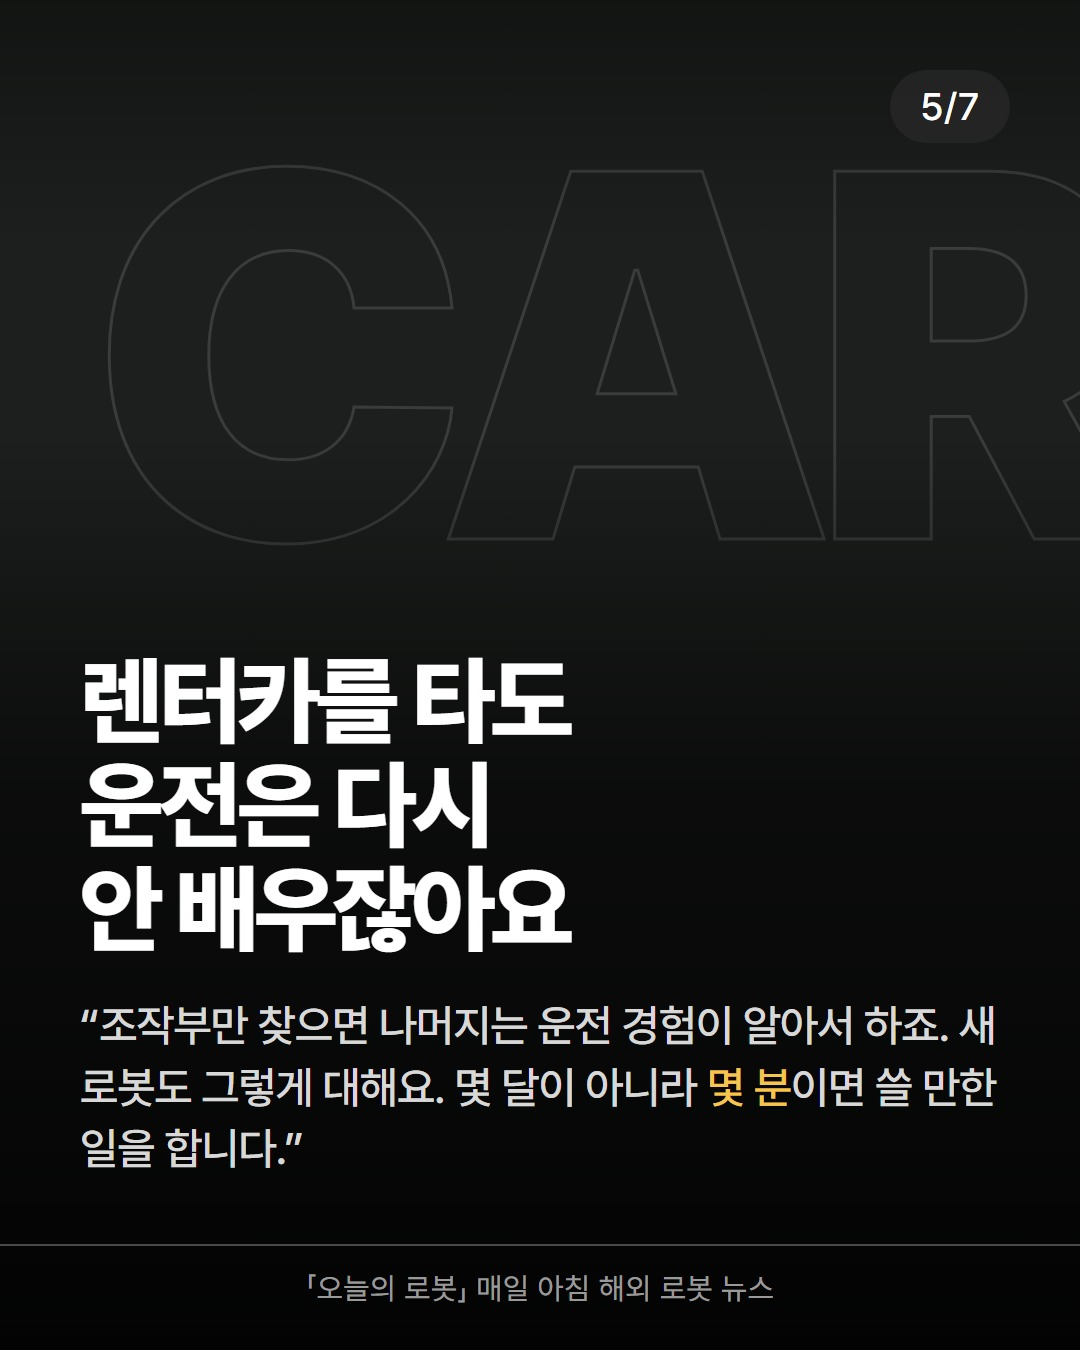
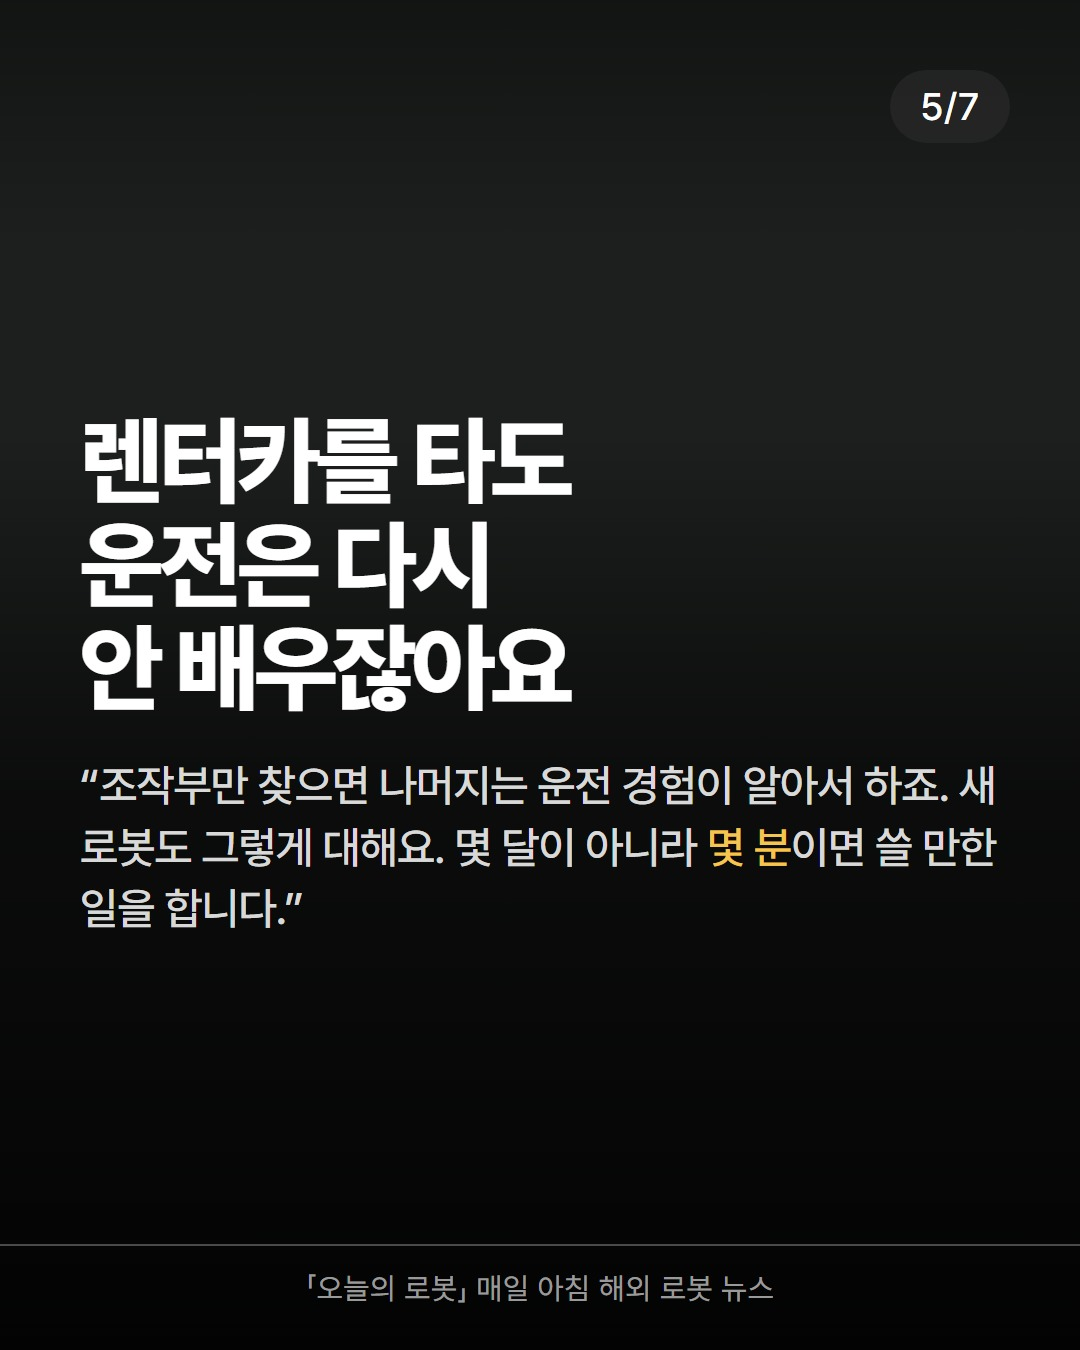
외곽선 숫자 배경 제거, 표지는 기사 속 회사 제공 사진(스톡 제외), 화·목 자영업·중소기업 갈래 추가

Changed region(s): [[0.0611, 0.3111, 0.9167, 0.7156], [0.0611, 0.7467, 0.9472, 0.8711]]

diff --git a/templates/cards.css b/templates/cards.css
@@ -6,8 +6,7 @@ body{background:#111;font-family:Pretendard,"Malgun Gothic",sans-serif;-webkit-f
   background-color:#1c1f1d}
 .bg{position:absolute;inset:0;background-size:cover;background-position:center;filter:grayscale(.3) brightness(.82) contrast(1.04)}
 .pc{position:absolute;right:80px;bottom:120px;font-size:22px;color:rgba(255,255,255,.5)}
-.glyph{position:absolute;right:-40px;top:120px;font-weight:900;font-size:520px;line-height:.9;letter-spacing:-.05em;
-  color:transparent;-webkit-text-stroke:3px rgba(255,255,255,.13);white-space:nowrap}
+.card.plain .body{bottom:auto;top:50%;transform:translateY(-50%)}
 .shade{position:absolute;inset:0;background:linear-gradient(180deg,rgba(0,0,0,.35) 0%,rgba(0,0,0,0) 18%,rgba(0,0,0,0) 32%,rgba(0,0,0,.6) 58%,rgba(0,0,0,.9) 100%)}
 .pill{position:absolute;top:70px;right:70px;background:rgba(40,40,40,.72);color:#fff;font-size:38px;font-weight:500;
   padding:14px 30px;border-radius:44px;letter-spacing:.02em}

diff --git a/photos.py b/photos.py
@@ -29,10 +29,39 @@ def find(query):
     return None, None
 
 
+STOCK = re.compile(r"getty|shutterstock|associated press|\bAP\b|reuters|alamy|bloomberg", re.I)
+
+
+def press(day, post):
+    """기사 대표 사진(og:image)을 표지에 쓴다. 단, 원문이 «Source: <회사>»로 밝힌 회사 제공 사진일 때만.
+    게티·AP·로이터 같은 통신사·스톡 사진은 쓰지 않는다. config.json의 press_photo가 true일 때만 돈다."""
+    src = io.open(os.path.join(day, "source.txt"), encoding="utf-8").read()
+    m = re.search(r"\|\s*Source:\s*([^\n|]{2,40})", src)
+    if not m or STOCK.search(m.group(1)):
+        return print("표지: 회사 제공 사진 표기가 없거나 통신사·스톡 사진 → 건너뜀")
+    page = get(post["source"]["url"]).decode("utf-8", "replace")
+    og = re.search(r'<meta[^>]+property="og:image"[^>]+content="([^"]+)"', page) \
+        or re.search(r'<meta[^>]+content="([^"]+)"[^>]+property="og:image"', page)
+    if not og or STOCK.search(og.group(1)):
+        return print("표지: 대표 사진 없음 또는 스톡 사진 → 건너뜀")
+    url = og.group(1).replace("&amp;", "&")
+    name = f"photos/{hashlib.md5(url.encode()).hexdigest()[:10]}.jpg"
+    with open(os.path.join(day, name), "wb") as f:
+        f.write(get(url))
+    post["cards"][0]["photo"], post["cards"][0]["credit"] = name, f"사진 {m.group(1).strip()}"
+    print(f"표지: 회사 제공 사진 ({m.group(1).strip()})")
+
+
 def main(day):
     path = os.path.join(day, "post.json")
     post = json.load(io.open(path, encoding="utf-8"))
     os.makedirs(os.path.join(day, "photos"), exist_ok=True)
+    cfg = json.load(io.open(os.path.join(os.path.dirname(os.path.abspath(__file__)), "config.json"), encoding="utf-8"))
+    if cfg.get("press_photo") and not post["cards"][0].get("photo"):
+        try:
+            press(day, post)
+        except Exception as e:
+            print(f"표지 사진 실패: {e}")
     cache = {}
     for i, card in enumerate(post["cards"], 1):
         q = card.get("photo_query")

diff --git a/render.py b/render.py
@@ -20,12 +20,12 @@ def rich(s):
 
 def card(c, i, n, no):
     bg = (f'<div class="bg" style="background-image:url({c["photo"]});background-position:{c.get("pos", "center")}"></div>'
-          if c.get("photo") else f'<div class="glyph">{html.escape(c.get("glyph", ""))}</div>')
+          if c.get("photo") else "")  # 사진이 없으면 장식 없이 바탕색만 (외곽선 숫자 배경은 2026-10-23 본인 지시로 없앰)
     tag = f'<span class="tag">{html.escape(CFG["tag"])} {no}</span>' if i == 1 else ""
     sub = "".join(f'<p class="sub{" lead" if j == 0 and c.get("lead") else ""}">{rich(s)}</p>'
                   for j, s in enumerate(c.get("sub", [])))
     rows = "".join(f'<div class="row"><b>{rich(k)}</b><span>{rich(v)}</span></div>' for k, v in c.get("rows", []))
-    return f"""<section class="card">{bg}<div class="shade"></div>
+    return f"""<section class="card{'' if c.get('photo') else ' plain'}">{bg}<div class="shade"></div>
   <div class="body"><h1 class="{c.get('size', '')}">{rich(c['h1'])}</h1>{sub}{f'<div class="list">{rows}</div>' if rows else ''}</div>
   {tag}<span class="pill">{i}/{n}</span><div class="rule"></div>
   {f'<span class="pc">{html.escape(c["credit"])}</span>' if c.get("credit") else ''}

diff --git a/check.py b/check.py
@@ -17,7 +17,7 @@ import io, json, os, re, sys
 LIMITS = {"h1": 40, "sub": 90, "row": 40}
 BANNED = ["최초", "혁명", "충격", "역대급", "미쳤", "소름", "무조건", "100%", "AI 요약", "AI가 요약"]
 IMG = (1080, 1350)
-META = {"topic": ["휴머노이드", "모델·소프트웨어", "투자·상장", "공장·물류 도입", "기타"],
+META = {"topic": ["휴머노이드", "모델·소프트웨어", "투자·상장", "공장·물류 도입", "자영업·중소기업", "기타"],
         "hook": ["왜", "숫자 대비", "원인→결과", "유행어 해설", "인물+주장", "결론"],  # STYLE.md 제목 공식 A~E (결론은 No.1 이전 방식)
         "photo_cover": [True, False]}
 

diff --git a/collect.py b/collect.py
@@ -15,6 +15,9 @@ FEEDS = {
     "ieee-spectrum": "https://spectrum.ieee.org/feeds/topic/robotics.rss",
     "techcrunch": "https://techcrunch.com/category/robotics/feed/",
     "robohub": "https://robohub.org/feed/",
+    # 자영업·중소기업 갈래 (식당·소매 현장의 자동화 기술)
+    "restaurant-dive": "https://www.restaurantdive.com/feeds/topic/technology/",
+    "retail-dive": "https://www.retaildive.com/feeds/topic/technology/",
 }
 
 

diff --git a/ROUTINE.md b/ROUTINE.md
@@ -15,7 +15,9 @@
    - 이번 주에 무엇을 바꿨는지 `data/weekly.md` 맨 위에 5줄 이내로 남긴다. 사람이 읽는 주간 보고다.
 2. `D/post.json`이 이미 있고 `python check.py D`가 통과하면 7단계로 건너뛴다.
 3. `python collect.py`를 실행한다. 이어서 `python collect.py --fresh`로 후보를 본다. 후보가 없으면 `--fresh 96`으로 넓힌다. 그래도 없으면 7단계로 간다.
-4. 기사 1건을 고른다. 우선순위는 다음과 같다.
+4. 기사 1건을 고른다. **요일로 갈래를 나눈다** (독자는 로봇에 관심 있는 일반인 + 중소기업·자영업자. 초기 목표는 팔로워 모으기):
+   - **화·목** = 자영업·중소기업 갈래: `restaurant-dive`·`retail-dive` 또는 로봇 매체의 식당·매장·창고·소규모 공장 자동화 기사. «우리 가게·우리 회사라면?»으로 읽히게 쓴다. `meta.topic`은 «자영업·중소기업».
+   - **나머지 요일** = 로봇 갈래: 아래 우선순위.
    ① 휴머노이드·피지컬 AI·로봇 파운데이션 모델
    ② 대형 투자·양산·실제 공장 도입
    ③ 한국 기업·한국 시장과 관련된 것
@@ -31,8 +33,9 @@
      - LESSONS.md의 «이번 주 실험»이 공식을 정해 주면 그것을 따른다.
      - 7장 구조: 표지 → 훅 → 본문 4장(카드 제목이 주장형 소제목) → 마무리 한 줄. 마지막 장 아래에 «출처 <매체>»를 붙인다(링크·«원문» 표기는 캡션에도 넣지 않는다).
    - 제목은 3줄 이내, `<br>`로 줄을 나눈다. `sub` 한 줄은 90자 이내, `rows`는 3~5줄이다.
-   - `glyph`: 사진이 없을 때 깔리는 외곽선 글자. 숫자·약어·영문 4~5자를 쓴다.
-   - `photo_query`: Wikimedia Commons 영어 검색어. 표지와 3번 카드 정도에만 넣는다(회사명·로봇 모델명·제품군).
+   - 사진: 표지는 `photos.py`가 기사 대표 사진을 자동으로 넣는다(원문이 «Source: 회사»로 밝힌 회사 제공 사진만, 게티·AP 등 스톡은 제외).
+     - 나머지 카드는 기사 속 로봇·장소·제품을 그대로 보여 주는 사진이 있을 때만 `photo_query`(Wikimedia 영어 검색어)를 단다.
+     - 관련 없는 사진은 넣지 않는다. 사진이 없는 카드는 장식 없이 글만 가운데에 놓인다(숫자 외곽선 배경은 없앴다).
    - **숫자 규칙**: 카드와 캡션에 쓰는 숫자는 원문에 그대로 있어야 한다. 단위를 바꿨으면(예: $90M → 9천만 달러) `facts`에 `{"ko": "9천만 달러", "quote": "<원문 문장 일부 그대로>"}`를 넣는다.
    - 원문이 하지 않은 전망·평가·한국 관련 주장은 지어내지 않는다.
    - 과장어는 쓰지 않는다(«최초»·«혁명»·«충격» 등 `check.py` BANNED 목록).

diff --git a/STYLE.md b/STYLE.md
@@ -41,6 +41,10 @@
 - 전문 용어는 처음 나올 때 괄호로 풀어 준다. 예: «토트(부품 상자)», «SPAC(기업인수목적회사)».
 - 회사·인물은 처음 나올 때만 영문을 같이 쓴다.
 
+## 독자
+
+로봇에 관심 있는 일반인과 중소기업·자영업자가 섞여 있다. 전공 지식 없이 읽혀야 한다. 화·목의 자영업 갈래는 «우리 가게라면 어떤 일이 바뀌나»로 마무리한다(원문 근거 안에서).
+
 ## 4. 말투 — 기사체가 아니라 «사람이 말하는 글»
 
 2026-10-23 1차본(No.2·No.3)은 요약 도구의 분석만 보고 써서 뉴스 기사체가 됐다. 본인이 «조쉬 말투가 아니다»라고 지적했다.
